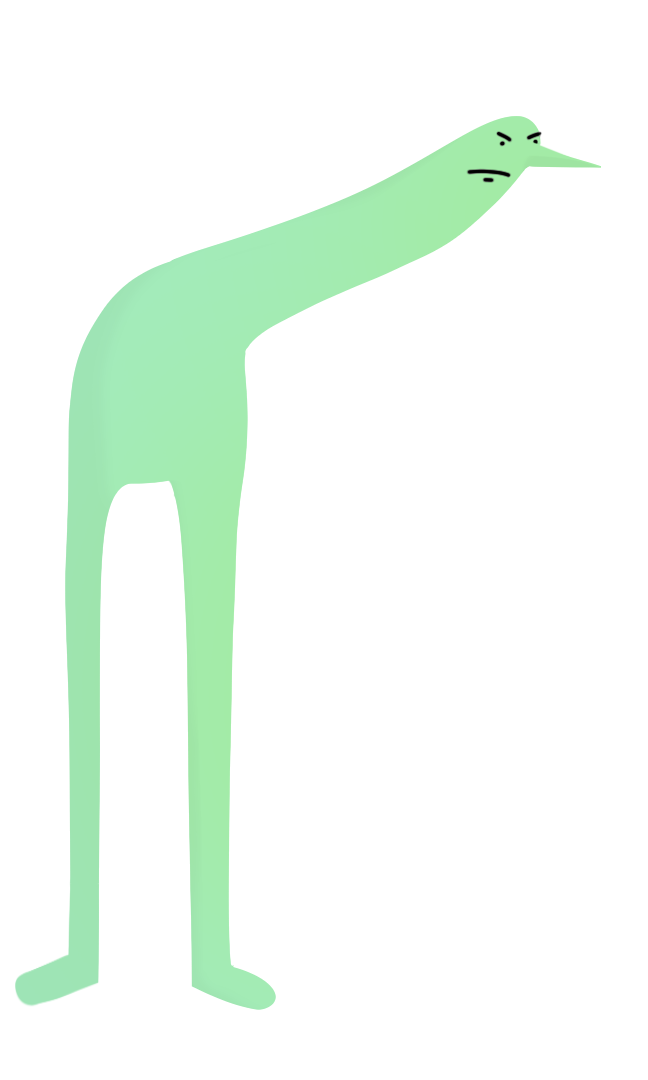
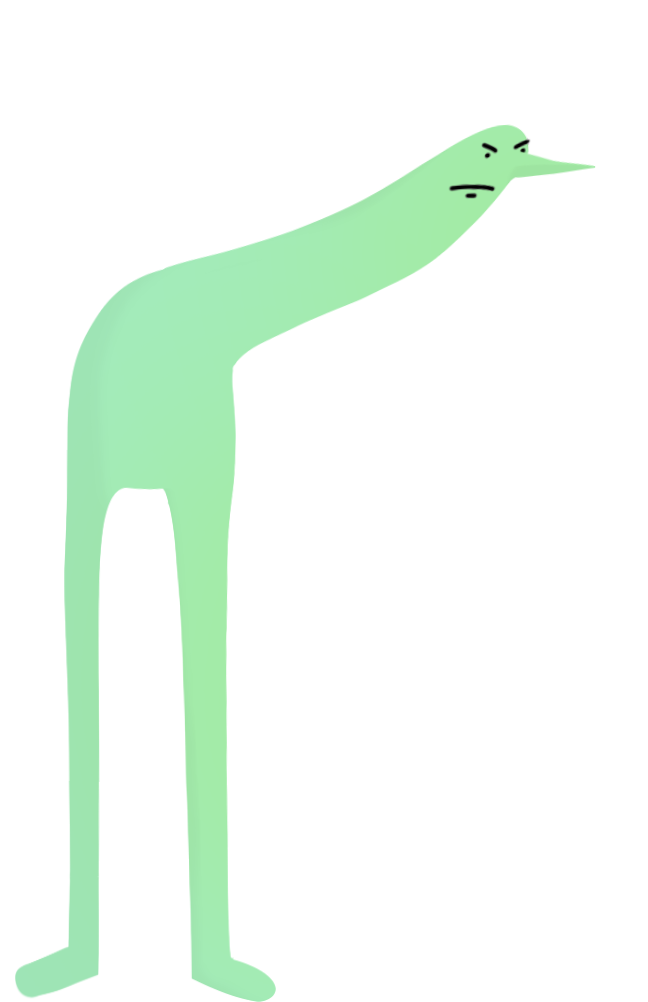
added: colors and positioning

diff --git a/static/index.css b/static/index.css
@@ -103,12 +103,12 @@ button {
     --track-color: #FFF;
     --note-color: #D9D9D9;
 
-    --accent-color1: #FD3787;
-    --accent-color2: #B056D8;
-    --accent-color3: #FDCF01;
-    --accent-color4: #01E7FC;
-    --accent-color5: #DD0B0B;
-    --accent-color6: #FC8105;
+    --accent-color1: #A3EBB7;
+    --accent-color2: #e8b69a;
+    --accent-color3: #F3670B;
+    --accent-color4: #1FA8C7;
+    --accent-color5: #c6a2e3;
+    --accent-color6: #904A9A;
     --accent-color7: #959595;
 
     --font-headers: 'InterBold', sans-serif;
@@ -343,6 +343,29 @@ div.worm.bottom::after {
         object-position: bottom;
     }
 
+.track--langert .btn--cell.active {
+    background-color: var(--accent-color1);
+}
+
+.track--kitty .btn--cell.active {
+    background-color: var(--accent-color2);
+}
+
+.track--vis .btn--cell.active {
+    background-color: var(--accent-color3);
+}
+
+.track--worm .btn--cell.active {
+    background-color: var(--accent-color4);
+}
+
+.track--blob .btn--cell.active {
+    background-color: var(--accent-color5);
+}
+
+.track--eyeguy .btn--cell.active {
+    background-color: var(--accent-color6);
+}
 
 /*****************/
 /* Character bar */
@@ -357,6 +380,7 @@ div.worm.bottom::after {
 
 .character-container .stand {
     width: 100%;
+    height: 23rem;
     padding-bottom: 1.875rem;
     display: grid;
     grid-template-columns: repeat(6, 150px);
@@ -379,9 +403,34 @@ div.worm.bottom::after {
     z-index: -1;
 }
 
-.character-container .stand .cat {
-    display: flex;
-    justify-content: center;
+.character-container .stand .character {
+    position: absolute;
+    transform: translate(-50%, -1rem);
+}
+
+.character-container .stand .character.langert {
+    height: 100%;
+    left: 15%;
+}
+
+.character-container .stand .character.kitty {
+    left: 25%;
+}
+
+.character-container .stand .character.vis {
+    left: 40%;
+}
+
+.character-container .stand .character.worm {
+    left: 52%;
+}
+
+.character-container .stand .character.blob {
+    left: 68%;
+}
+
+.character-container .stand .character.eyeguy {
+    left: 85%;
 }
 
 .mobile-text {
@@ -432,7 +481,7 @@ div.worm.bottom::after {
 }
 
 .btn--cell.sequence {
-    background-color: pink;
+    background-color: rgb(85, 215, 255);
 }
 
 .btn--cell.active {
